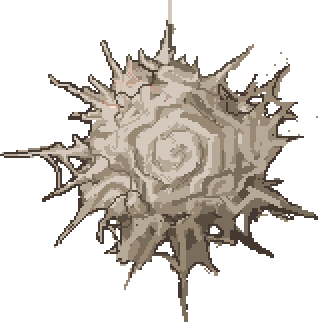
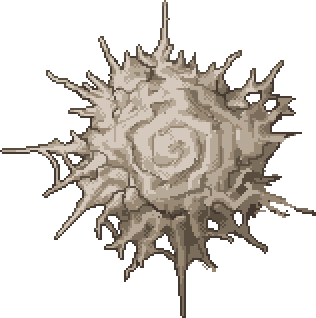
Augmented cutscene showing cocoon formation + new assets

Changed region(s): [[0.0, 0.0, 1.0, 1.0], [0.9968, 0.3396, 1.0, 0.3679]]

diff --git a/Content/Bosses/BrainRedux/CutsceneFakeThinker.cs b/Content/Bosses/BrainRedux/CutsceneFakeThinker.cs
@@ -1,5 +1,7 @@
 using StarlightRiver.Content.Biomes;
 using StarlightRiver.Core.Systems.CameraSystem;
+using StarlightRiver.Core.Systems.LightingSystem;
+using StarlightRiver.Helpers;
 using System;
 using System.Collections.Generic;
 using System.Linq;
@@ -53,6 +55,8 @@ namespace StarlightRiver.Content.Bosses.BrainRedux
 
 			Timer++;
 
+			Lighting.AddLight(NPC.Center, new Vector3(1f, 0.9f, 0.8f));
+
 			if (Timer < 60)
 			{
 				NPC.scale = Math.Min(Timer / 60f, 1f);
@@ -101,7 +105,7 @@ namespace StarlightRiver.Content.Bosses.BrainRedux
 				}
 			}
 
-			if (Timer > 130)
+			if (Timer > 130 && GrayAuraRadius > 10)
 			{
 				var rot = Main.rand.NextFloat(6.28f);
 				Dust.NewDustPerfect(NPC.Center + Vector2.One.RotatedBy(rot) * GrayAuraRadius / 2f, ModContent.DustType<Dusts.GraymatterDust>(), Vector2.One.RotatedBy(rot) * Main.rand.NextFloat(1), 0, Color.White, Main.rand.NextFloat(0.5f, 1f));
@@ -113,21 +117,75 @@ namespace StarlightRiver.Content.Bosses.BrainRedux
 					ZoomHandler.SetZoomAnimation(1f, 90);
 			}
 
-			if (Timer > 180)
+			if (Timer > 180 && Timer < 240)
 			{
 				NPC.velocity.Y -= 0.25f;
 			}
 
-			if (Timer >= 160)
+			int locationsToShow = ModContent.GetInstance<GraymatterBiomeSystem>().thinkerPositions.Count;
+			int timePerLocation = 270;
+			int durationToShowAll = locationsToShow * timePerLocation;
+
+			if (Timer >= 240 && Timer < 240 + durationToShowAll)
 			{
-				// Future anim
+				float currTime = (Timer - 240) % timePerLocation;
+				int locationIndex = (int)((Timer - 240) / timePerLocation);
+
+				Vector2 location = ModContent.GetInstance<GraymatterBiomeSystem>().thinkerPositions[locationIndex] * 16;
+
+				if (currTime < 30)
+				{
+					Fadeout.color = Color.Black;
+					Fadeout.opacity = currTime / 30f;
+				}
+
+				if (currTime == 30)
+				{
+					CameraSystem.TeleportCamera(location);
+					GrayAuraRadius = 140;
+				}
+
+				if (currTime > 30 && currTime < 90)
+				{
+					Fadeout.color = Color.Black;
+					Fadeout.opacity = 1f - (currTime - 30) / 60f;
+				}
+
+				if (currTime == 60)
+				{
+					NPC.Center = location + new Vector2(0, -800);
+					NPC.velocity *= 0;
+				}
+
+				if (currTime > 60 && currTime < 150)
+				{
+					NPC.Center = Vector2.Lerp(location + new Vector2(0, -800), location, Helper.SwoopEase((currTime - 60) / 90f));
+				}
+
+				if (currTime > 180 && currTime < 210)
+				{
+					GrayAuraRadius = 140 * (1f - (currTime - 180) / 30f);
+				}
 			}
 
-			if (Timer == 300)
+			if (Timer > 240 + durationToShowAll)
 			{
-				if (Vector2.Distance(Main.LocalPlayer.Center, homePos) < 3000)
-					CameraSystem.ReturnCamera(30);
+				Fadeout.color = Color.Black;
+				Fadeout.opacity = (Timer - (240 + durationToShowAll)) / 30f;
+			}
 
+			if (Timer == 270 + durationToShowAll)
+				CameraSystem.TeleportCameraBack();
+
+			if (Timer > 270 + durationToShowAll)
+			{
+				Fadeout.color = Color.Black;
+				Fadeout.opacity = 1f - (Timer - (270 + durationToShowAll)) / 30f;
+			}
+
+			if (Timer == 300 + durationToShowAll)
+			{
+				StarlightWorld.Flag(WorldFlags.ThinkerBossOpen);
 				NPC.active = false;
 			}
 		}
@@ -139,6 +197,20 @@ namespace StarlightRiver.Content.Bosses.BrainRedux
 
 		public override bool PreDraw(SpriteBatch spriteBatch, Vector2 screenPos, Color drawColor)
 		{
+			float shellOpacity = 0.01f;
+
+			if (Timer > 240)
+				shellOpacity = 0.01f + 1f - GrayAuraRadius / 140f;
+
+			Main.NewText(shellOpacity);
+
+			Texture2D tex = Assets.Bosses.BrainRedux.ShellBack.Value;
+			Vector2 pos = NPC.Center - Main.screenPosition - tex.Size() / 2f;
+			Color color = Color.White;
+			color.A = (byte)(shellOpacity * 255);
+
+			LightingBufferRenderer.DrawWithLighting(pos, tex, color * shellOpacity);
+
 			return false;
 		}
 

diff --git a/Core/Systems/CameraSystem/CameraSystem.cs b/Core/Systems/CameraSystem/CameraSystem.cs
@@ -81,6 +81,32 @@ namespace StarlightRiver.Core.Systems.CameraSystem
 			MoveModifier.EaseFunction = ease ?? Vector2.SmoothStep;
 		}
 
+		/// <summary>
+		/// Teleports the camera instantaneously
+		/// </summary>
+		/// <param name="target">The position to teleport to</param>
+		public static void TeleportCamera(Vector2 target)
+		{
+			MoveModifier.Timer = 0;
+			MoveModifier.MovementDuration = 1;
+			MoveModifier.Target = target;
+			MoveModifier.Returning = false;
+
+			MoveModifier.EaseFunction = (p1, p2, x) => x > 0 ? p2 : p1;
+		}
+
+		/// <summary>
+		/// Return the camera to normal instantaneously
+		/// </summary>
+		public static void TeleportCameraBack()
+		{
+			MoveModifier.Timer = 0;
+			MoveModifier.MovementDuration = 1;
+			MoveModifier.Returning = true;
+
+			MoveModifier.EaseFunction = (p1, p2, x) => x > 0 ? p2 : p1;
+		}
+
 		public override void PostUpdateEverything()
 		{
 			if (shake > 120 * ModContent.GetInstance<Content.Configs.GraphicsConfig>().ScreenshakeMult) //clamp screenshake to (120 * config) to prevent utter chaos

diff --git a/Core/Systems/CameraSystem/Fadeout.cs b/Core/Systems/CameraSystem/Fadeout.cs
@@ -1,0 +1,40 @@
+using ReLogic.Graphics;
+using Steamworks;
+using System;
+using System.Collections.Generic;
+using System.Linq;
+using System.Text;
+using System.Threading.Tasks;
+
+namespace StarlightRiver.Core.Systems.CameraSystem
+{
+	/// <summary>
+	/// Simple system that facilitates drawing a colored fadeout over the entire game. The static opacity
+	/// field can be set from 0 to 1 and the color field will be the color of the fadeout.
+	/// </summary>
+	internal class Fadeout : ModSystem
+	{
+		public static float opacity = 0;
+		public static Color color;
+
+		public override void Load()
+		{
+			On_Main.DoDraw += DrawFadeout;
+		}
+
+		private void DrawFadeout(On_Main.orig_DoDraw orig, Main self, GameTime gameTime)
+		{
+			orig(self, gameTime);
+
+			if (opacity > 0)
+			{
+				Main.spriteBatch.Begin();
+
+				var tex = Terraria.GameContent.TextureAssets.MagicPixel.Value;
+				Main.spriteBatch.Draw(tex, new Rectangle(0, 0, Main.screenWidth, Main.screenHeight), color * opacity);
+
+				Main.spriteBatch.End();
+			}
+		}
+	}
+}

diff --git a/Content/Bosses/BrainRedux/TheThinker.cs b/Content/Bosses/BrainRedux/TheThinker.cs
@@ -109,6 +109,11 @@ namespace StarlightRiver.Content.Bosses.BrainRedux
 			});
 		}
 
+		public override void BossHeadSlot(ref int index)
+		{
+			index = active ? index : -1;
+		}
+
 		/// <summary>
 		/// Attempts to switch the boss bar to the specified entity, for when we need to swap between this and the brain
 		/// </summary>
@@ -443,9 +448,19 @@ namespace StarlightRiver.Content.Bosses.BrainRedux
 			}
 		}
 
-		public override void OnHitByProjectile(Projectile projectile, NPC.HitInfo hit, int damageDone)
+		public override bool? CanBeHitByItem(Player player, Item item)
 		{
-			base.OnHitByProjectile(projectile, hit, damageDone);
+			return active ? null : false;
+		}
+
+		public override bool? CanBeHitByProjectile(Projectile projectile)
+		{
+			return active ? null : false;
+		}
+
+		public override bool CanBeHitByNPC(NPC attacker)
+		{
+			return active;
 		}
 
 		public override void ModifyIncomingHit(ref NPC.HitModifiers modifiers)

diff --git a/Content/Bosses/BrainRedux/TheThinker.Renderer.cs b/Content/Bosses/BrainRedux/TheThinker.Renderer.cs
@@ -24,7 +24,7 @@ namespace StarlightRiver.Content.Bosses.BrainRedux
 			Texture2D tex = Assets.Bosses.BrainRedux.ShellBack.Value;
 			Vector2 pos = home - Main.screenPosition - tex.Size() / 2f;
 
-			LightingBufferRenderer.DrawWithLighting(pos, tex, Color.Gray);
+			LightingBufferRenderer.DrawWithLighting(pos, tex, Color.White);
 		}
 
 		public void DrawArena(SpriteBatch spriteBatch)
@@ -141,6 +141,9 @@ namespace StarlightRiver.Content.Bosses.BrainRedux
 
 		private void DrawShadedBody(SpriteBatch sb)
 		{
+			if (!Open)
+				return;
+
 			bodyShader ??= Filters.Scene["ThinkerBody"].GetShader().Shader;
 
 			Texture2D glow = Assets.Keys.Glow.Value;

diff --git a/Content/Items/Debug.cs b/Content/Items/Debug.cs
@@ -63,13 +63,7 @@ namespace StarlightRiver.Content.Items
 
 		public override bool? UseItem(Player player)
 		{
-			TextCard.Display("Blorgus", "schmungus!", () => Main.LocalPlayer.velocity.Y < 0);
-			player.GetHandler().unlockedAbilities.Clear();
-			player.GetHandler().InfusionLimit = 1;
-
-			//Main.time = 53999;
-			//Main.dayTime = true;
-			//StarlightEventSequenceSystem.willOccur = true;
+			StarlightWorld.FlipFlag(WorldFlags.ThinkerBossOpen);
 
 			return true;
 		}

diff --git a/Content/Biomes/GraymatterBiome.cs b/Content/Biomes/GraymatterBiome.cs
@@ -177,6 +177,7 @@ namespace StarlightRiver.Content.Biomes
 
 		public override void ClearWorld()
 		{
+			thinkerPositions.Clear();
 			TheThinker.toRender.Clear();
 		}
 
